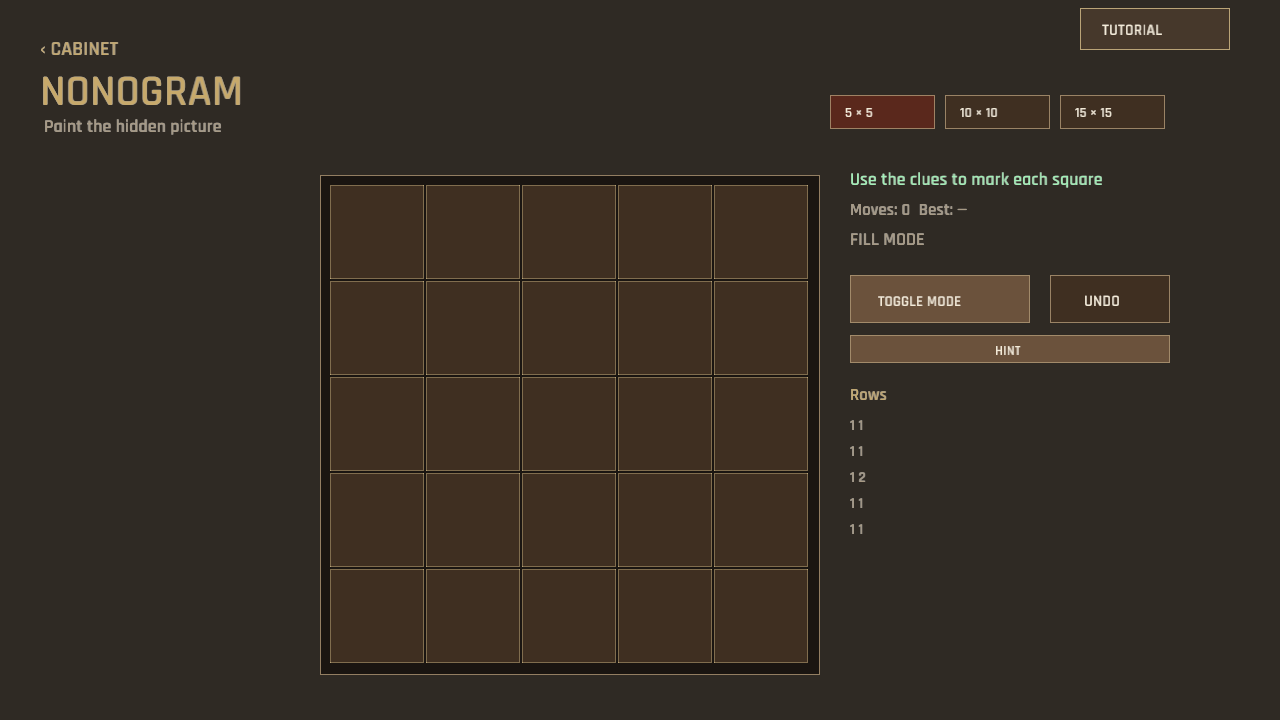
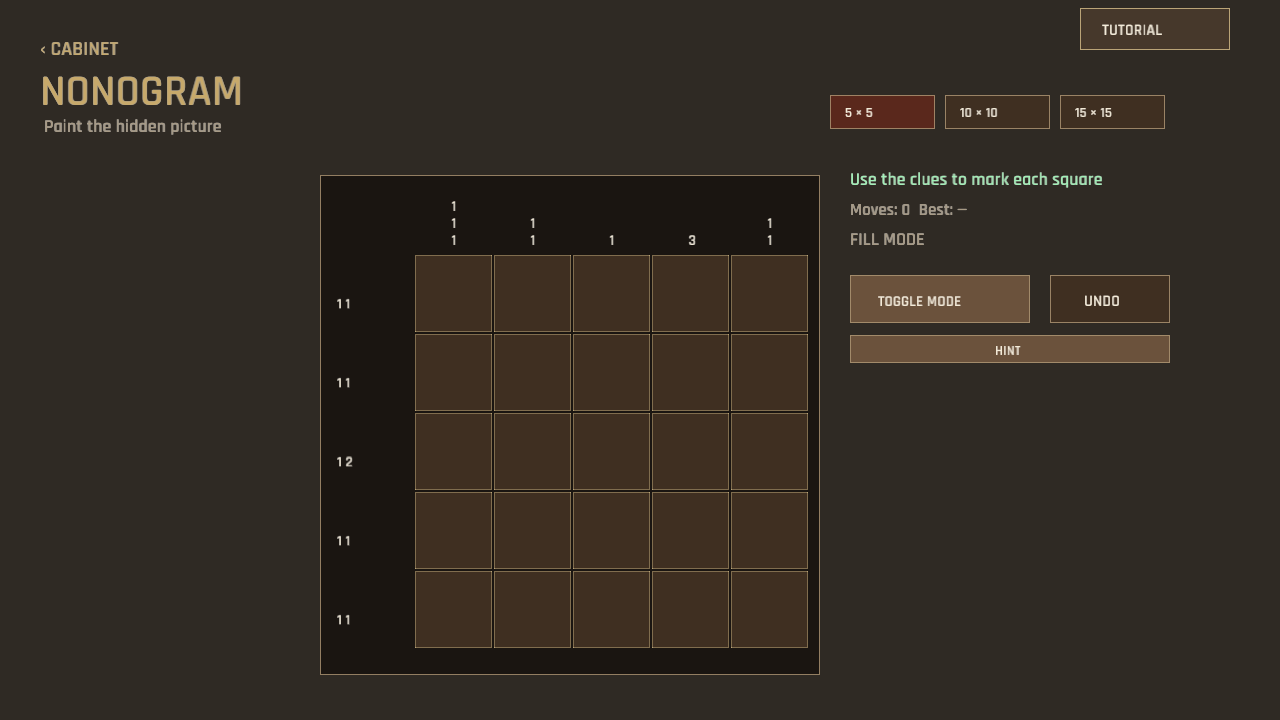
The hidden picture speaks from every edge (Nonogram clue layout)
The desktop Nonogram used to show only a partial row list, leaving the puzzle without the standard column guidance around the board. The desktop board now reserves a left clue rail and a top clue rail, with row runs aligned beside their rows and column runs stacked above their columns.\n\nThe same stacked column treatment is carried through the compact landscape and portrait layouts, including zoomed focus windows, while grid hit testing follows the new desktop geometry. The refreshed desktop verification capture records the standard clue arrangement.\n\nValidated with 371 passing tests, visual captures at desktop, compact landscape, and portrait sizes, and the full publish.ps1 Windows/WebGL Preview workflow.\n\nCo-Authored-By: Codex GPT-5 <noreply@openai.com>

Changed region(s): [[0.25, 0.2444, 0.6562, 0.9472], [0.6562, 0.5194, 0.6875, 0.55]]

diff --git a/src/nonogram_ui.rs b/src/nonogram_ui.rs
@@ -9,6 +9,17 @@ use crate::{
 };
 use macroquad::prelude::*;
 
+const DESKTOP_BOARD: Rect = Rect {
+    x: 320.,
+    y: 175.,
+    w: 500.,
+    h: 500.,
+};
+
+fn desktop_grid(size: usize) -> GridLayout {
+    GridLayout::new(Rect::new(415., 255., 395., 395.), size, size)
+}
+
 fn text(s: &str, x: f32, y: f32, size: f32, color: Color) {
     crate::ui::draw_text(s, x, y, crate::ui::readable_text_size(size), color);
 }
@@ -46,13 +57,11 @@ pub fn draw_nonogram(state: &AppState) {
         );
         text(preset.label(), rect.x + 15., rect.y + 22., 14., WHITE);
     }
-    let board = Rect::new(320., 175., 500., 500.);
-    panel(board, accessibility::board_fill(state.high_contrast));
-    let grid = GridLayout::new(
-        Rect::new(board.x + 10., board.y + 10., board.w - 20., board.h - 20.),
-        game.size,
-        game.size,
+    panel(
+        DESKTOP_BOARD,
+        accessibility::board_fill(state.high_contrast),
     );
+    let grid = desktop_grid(game.size);
     let cell = grid.cell_width;
     for index in 0..game.marks.len() {
         let cell_rect = grid.cell_rect(index).unwrap();
@@ -87,6 +96,42 @@ pub fn draw_nonogram(state: &AppState) {
                 } else {
                     Color::new(0.65, 0.58, 0.76, 1.)
                 },
+            );
+        }
+    }
+    let clue_size = accessibility::text_size((cell * 0.34).min(15.), state.large_text);
+    let clue_color = if state.high_contrast {
+        WHITE
+    } else {
+        crate::theme::CREAM
+    };
+    for (row, clue) in game.row_clues.iter().enumerate() {
+        let label = clue
+            .iter()
+            .map(|value| value.to_string())
+            .collect::<Vec<_>>()
+            .join(" ");
+        text(
+            &label,
+            grid.bounds.x - 78.,
+            grid.bounds.y + row as f32 * grid.cell_height + grid.cell_height * 0.68,
+            clue_size,
+            clue_color,
+        );
+    }
+    let clue_line_height = clue_size + 2.;
+    let column_clue_bottom = grid.bounds.y - 10.;
+    for (column, clue) in game.column_clues.iter().enumerate() {
+        let x = grid.bounds.x + column as f32 * grid.cell_width + grid.cell_width * 0.5
+            - clue_size * 0.2;
+        for (index, value) in clue.iter().enumerate() {
+            let from_bottom = clue.len() - index - 1;
+            text(
+                &value.to_string(),
+                x,
+                column_clue_bottom - from_bottom as f32 * clue_line_height,
+                clue_size,
+                clue_color,
             );
         }
     }
@@ -137,27 +182,9 @@ pub fn draw_nonogram(state: &AppState) {
     text("UNDO", 1084., 306., 16., WHITE);
     panel(Rect::new(850., 335., 320., 28.), crate::theme::SURFACE);
     text("HINT", 995., 355., 14., WHITE);
-    text("Rows", 850., 400., 17., crate::theme::BRASS);
-    for (index, clue) in game.row_clues.iter().take(6).enumerate() {
-        text(
-            &clue
-                .iter()
-                .map(|value| value.to_string())
-                .collect::<Vec<_>>()
-                .join(" "),
-            850.,
-            430. + index as f32 * 26.,
-            accessibility::text_size(15., state.large_text),
-            if state.high_contrast {
-                WHITE
-            } else {
-                crate::theme::SECONDARY
-            },
-        );
-    }
 }
 
-pub fn nonogram_clicks(_state: &AppState, p: Vec2) -> Vec<UiAction> {
+pub fn nonogram_clicks(state: &AppState, p: Vec2) -> Vec<UiAction> {
     if Rect::new(20., 20., 180., 50.).contains(p) {
         return vec![UiAction::Cabinet];
     }
@@ -175,23 +202,13 @@ pub fn nonogram_clicks(_state: &AppState, p: Vec2) -> Vec<UiAction> {
     if Rect::new(850., 335., 320., 28.).contains(p) {
         return vec![UiAction::NonogramHint];
     }
-    let board = Rect::new(320., 175., 500., 500.);
-    let grid = GridLayout::new(
-        Rect::new(board.x + 10., board.y + 10., board.w - 20., board.h - 20.),
-        _state.nonogram.size,
-        _state.nonogram.size,
-    );
+    let grid = desktop_grid(state.nonogram.size);
     grid.index_at(p)
         .map_or_else(Vec::new, |index| vec![UiAction::NonogramCell(index)])
 }
 
 pub fn drag_actions(state: &AppState, start: Vec2, end: Vec2) -> Vec<UiAction> {
-    let board = Rect::new(320., 175., 500., 500.);
-    let grid = GridLayout::new(
-        Rect::new(board.x + 10., board.y + 10., board.w - 20., board.h - 20.),
-        state.nonogram.size,
-        state.nonogram.size,
-    );
+    let grid = desktop_grid(state.nonogram.size);
     let to_cell = |point: Vec2| -> Option<(usize, usize)> { grid.coordinate_at(point) };
     let (start, end) = match (to_cell(start), to_cell(end)) {
         (Some(start), Some(end)) => (start, end),

diff --git a/src/responsive_puzzles.rs b/src/responsive_puzzles.rs
@@ -105,6 +105,13 @@ pub fn draw_nonogram(state: &AppState) {
         }
     }
     let (origin_x, origin_y) = origin(state);
+    let clue_size = accessibility::text_size((layout.cell_width * 0.30).min(11.), state.large_text);
+    let clue_line_height = clue_size + 1.;
+    let clue_color = if state.high_contrast {
+        WHITE
+    } else {
+        crate::theme::CREAM
+    };
     for (local, clue) in game
         .row_clues
         .iter()
@@ -121,12 +128,8 @@ pub fn draw_nonogram(state: &AppState) {
             &label,
             7.,
             190. + local as f32 * layout.cell_height + layout.cell_height * 0.62,
-            accessibility::text_size((layout.cell_height * 0.30).min(11.), state.large_text),
-            if state.high_contrast {
-                WHITE
-            } else {
-                crate::theme::CREAM
-            },
+            clue_size,
+            clue_color,
         );
     }
     for (local, clue) in game
@@ -136,22 +139,18 @@ pub fn draw_nonogram(state: &AppState) {
         .take(visible)
         .enumerate()
     {
-        let label = clue
-            .iter()
-            .map(|value| value.to_string())
-            .collect::<Vec<_>>()
-            .join(" ");
-        text(
-            &label,
-            46. + local as f32 * layout.cell_width,
-            178.,
-            accessibility::text_size((layout.cell_width * 0.28).min(10.), state.large_text),
-            if state.high_contrast {
-                WHITE
-            } else {
-                crate::theme::CREAM
-            },
-        );
+        let x = layout.bounds.x + local as f32 * layout.cell_width + layout.cell_width * 0.5
+            - clue_size * 0.2;
+        for (index, value) in clue.iter().enumerate() {
+            let from_bottom = clue.len() - index - 1;
+            text(
+                &value.to_string(),
+                x,
+                layout.bounds.y - 5. - from_bottom as f32 * clue_line_height,
+                clue_size,
+                clue_color,
+            );
+        }
     }
     text(
         if game.status == NonogramStatus::Won {

diff --git a/src/responsive_landscape_games.rs b/src/responsive_landscape_games.rs
@@ -355,7 +355,7 @@ pub fn draw_nonogram(state: &AppState) {
     panel(NONO_BOARD, accessibility::board_fill(state.high_contrast));
     let layout = nonogram_grid(state);
     let visible = crate::nonogram::visible_size(game.size, state.nonogram_zoomed);
-    let (_, origin_y) = nonogram_origin(state);
+    let (origin_x, origin_y) = nonogram_origin(state);
     for local in 0..visible * visible {
         let index = nonogram_global_index(state, local);
         let cell = layout.cell_rect(local).unwrap();
@@ -379,6 +379,13 @@ pub fn draw_nonogram(state: &AppState) {
             );
         }
     }
+    let clue_size = accessibility::text_size((layout.cell_width * 0.32).min(11.), state.large_text);
+    let clue_line_height = clue_size + 1.;
+    let clue_color = if state.high_contrast {
+        WHITE
+    } else {
+        crate::theme::CREAM
+    };
     for (local, clue) in game
         .row_clues
         .iter()
@@ -393,10 +400,30 @@ pub fn draw_nonogram(state: &AppState) {
                 .collect::<Vec<_>>()
                 .join(" "),
             15.,
-            105. + local as f32 * layout.cell_height,
-            9.,
-            crate::theme::CREAM,
+            layout.bounds.y + local as f32 * layout.cell_height + layout.cell_height * 0.68,
+            clue_size,
+            clue_color,
         );
+    }
+    for (local, clue) in game
+        .column_clues
+        .iter()
+        .skip(origin_x)
+        .take(visible)
+        .enumerate()
+    {
+        let x = layout.bounds.x + local as f32 * layout.cell_width + layout.cell_width * 0.5
+            - clue_size * 0.2;
+        for (index, value) in clue.iter().enumerate() {
+            let from_bottom = clue.len() - index - 1;
+            text(
+                &value.to_string(),
+                x,
+                layout.bounds.y - 5. - from_bottom as f32 * clue_line_height,
+                clue_size,
+                clue_color,
+            );
+        }
     }
     text(
         if game.status == NonogramStatus::Won {
